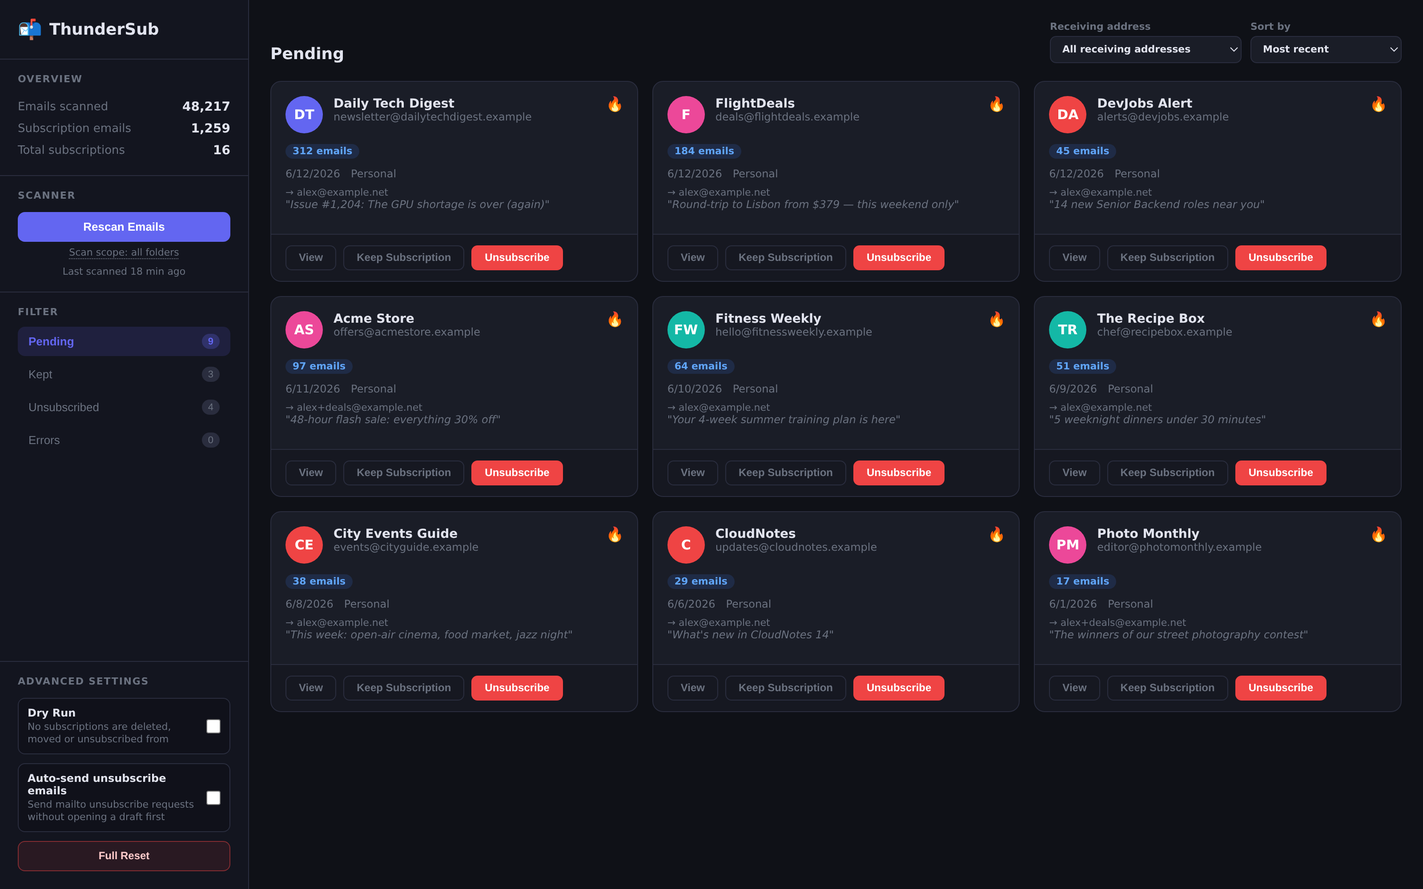
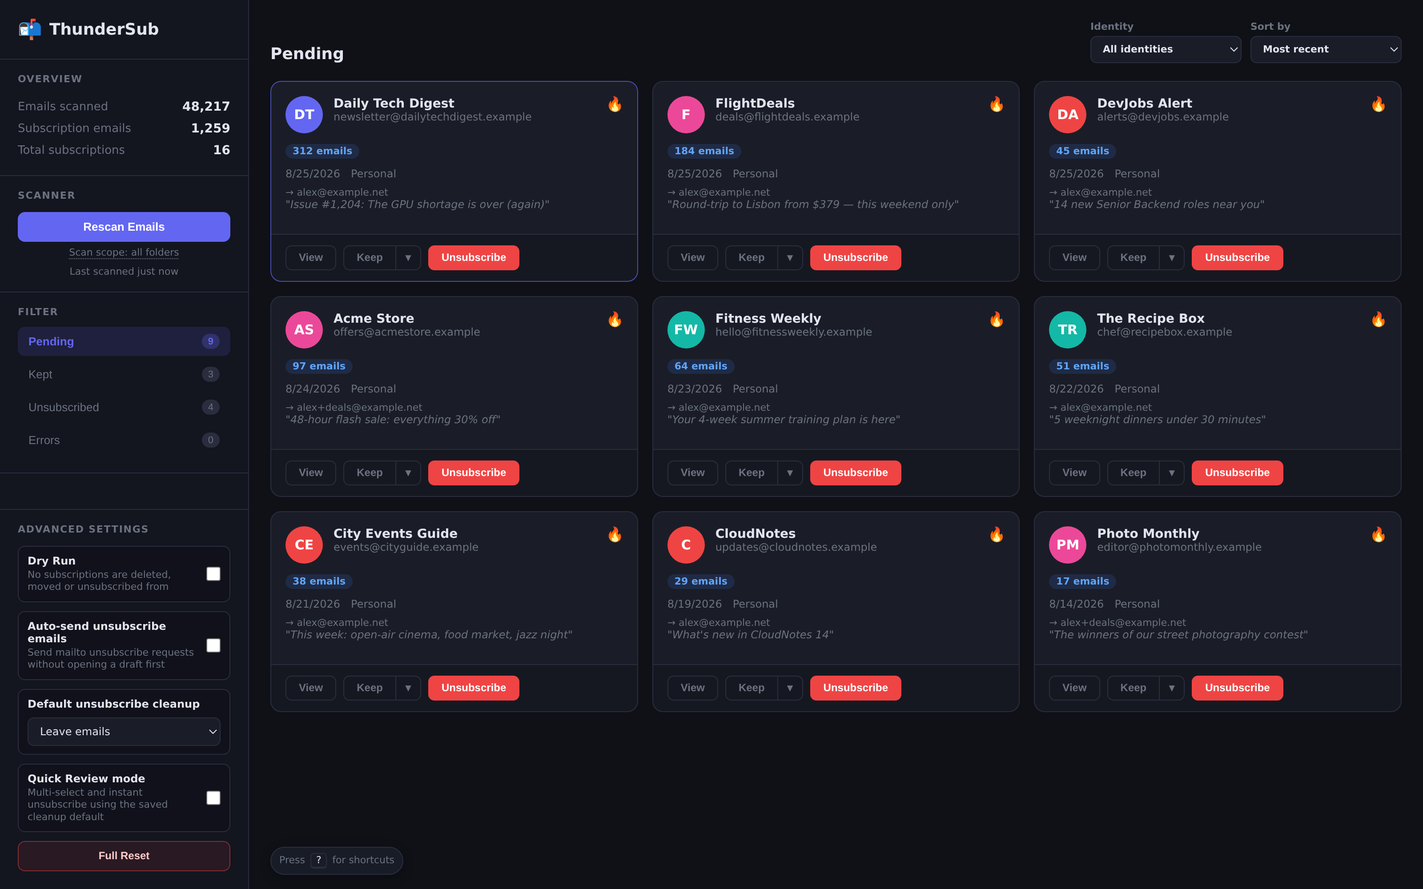
Prepare 1.1 documentation and error diagnostics

diff --git a/tab/tab.js b/tab/tab.js
@@ -201,7 +201,9 @@ function renderActivityQueue() {
             'aria-label': 'Dismiss activity item',
             'data-job-id': job.id
           }, 'x'))),
-      el('div', { class: 'activity-detail', title: job.message || '' }, job.message || 'Waiting...'),
+      el('div', {
+        class: 'activity-detail', title: job.responseMessage || job.message || ''
+      }, job.message || 'Waiting...'),
       (job.status === 'queued' || job.status === 'running') && el('div', { class: 'activity-progress-track' },
         el('div', { class: 'activity-progress-bar', style: `width:${Math.max(0, Math.min(100, job.progress || 0))}%` })));
   }));
@@ -335,6 +337,9 @@ function activityDetailRows(job) {
     ['Messages', String(job.selectedMessages || 0)],
     ['Folders', folderText],
   ].filter(Boolean);
+  if (Number.isFinite(job.httpStatus)) rows.push(['HTTP status', String(job.httpStatus)]);
+  if (job.httpStatusText) rows.push(['HTTP status text', job.httpStatusText]);
+  if (job.responseMessage) rows.push(['Response body', job.responseMessage]);
   if (job.destination) rows.push(['Destination', job.destination.label || job.destination.folderName || job.destination.id]);
   return rows;
 }
@@ -1867,7 +1872,9 @@ function buildCard(s) {
         el('span', {}, accountNames.join(', '))),
       s.recipientAddress && el('div', { class: 'card-accounts', title: `Delivered to ${s.recipientAddress}` }, `→ ${s.recipientAddress}`),
       s.sampleSubject && el('div', { class: 'card-subject', title: s.sampleSubject }, `"${s.sampleSubject.substring(0, 80)}"`),
-      s.error?.message && el('div', { class: 'card-error', title: s.error.message }, `${s.error.stage || 'Error'}: ${s.error.message}`),
+      s.error?.message && el('div', {
+        class: 'card-error', title: s.error.responseMessage || s.error.message
+      }, `${s.error.stage || 'Error'}: ${s.error.message}`),
       quickReviewDescription && (s.decision === 'pending' || s.decision === 'unsubscribed' || s.decision === 'error') &&
         el('div', { class: 'quick-review-action-note', title: quickReviewDescription.title }, quickReviewDescription.text),
       SHOW_DETECTION_UI && el('button', { class: 'evidence-toggle js-evidence-toggle', type: 'button' }, 'Why detected?')),
@@ -2547,8 +2554,23 @@ function dryRunSummary(sub, method, dispose, selectedFolders, destination, mode 
   return `${summary}. No changes made.`;
 }
 
-function errorPayload(stage, message) {
-  return { stage, message: String(message || 'Unknown error'), at: new Date().toISOString() };
+function errorPayload(stage, message, details = {}) {
+  return { stage, message: String(message || 'Unknown error'), ...details, at: new Date().toISOString() };
+}
+
+function unsubscribeFailureMessage(method, result, error) {
+  if (!method) return 'No unsubscribe method is available';
+  const label = METHOD_LABELS[method.type] || method.type || 'unsubscribe';
+  if (error) {
+    const reason = String(error.message || error).replace(/\s+/g, ' ').trim();
+    return `${label} unsubscribe failed${reason ? `: ${reason}` : ''}`;
+  }
+  if (Number.isFinite(result?.status)) {
+    const status = `HTTP ${result.status}${result.statusText ? ` ${result.statusText}` : ''}`;
+    const reason = String(result.message || '').trim();
+    return `${label} unsubscribe failed: ${status}${reason ? ` — ${reason}` : ''}`;
+  }
+  return `${label} unsubscribe failed without a response`;
 }
 
 async function doUnsubscribeConfirm() {
@@ -2646,6 +2668,7 @@ async function processActivityJob(job) {
   // Fire unsubscribe
   let ok = false;
   let unsubscribeResult = null;
+  let unsubscribeError = null;
   if (job.mode === 'cleanup' || job.mode === 'keep-cleanup') {
     ok = true;
     setActivityJobProgress(job, 'Applying cleanup...', 10);
@@ -2669,20 +2692,29 @@ async function processActivityJob(job) {
         ok = true;
       }
     } catch (e) {
+      unsubscribeError = e;
       ok = false;
     }
   }
 
   if (!ok) {
-    const message = method ? 'Unsubscribe request failed' : 'No unsubscribe method is available';
+    const message = unsubscribeFailureMessage(method, unsubscribeResult, unsubscribeError);
+    const responseDetails = unsubscribeResult ? {
+      httpStatus: unsubscribeResult.status,
+      httpStatusText: unsubscribeResult.statusText || '',
+      responseMessage: unsubscribeResult.message || ''
+    } : {};
+    Object.assign(job, responseDetails);
+    const error = errorPayload('unsubscribe', message, responseDetails);
     await trace.bg('decide', {
       ...jobRequest,
       decision: 'error',
       dispose,
-      error: errorPayload('unsubscribe', message)
+      error
     });
     updateDecisionStats(sub.decision, 'error');
     sub.decision = 'error';
+    sub.error = error;
     sub.processing = false;
     toast(message, 'error');
     if (currentFilter === 'error') renderFilteredCards();

diff --git a/store/screenshots/mock.js b/store/screenshots/mock.js
@@ -6,7 +6,7 @@
 'use strict';
 
 const SHOT = new URLSearchParams(location.search).get('shot') || 'dashboard';
-const NOW = Date.now();
+const NOW = Date.UTC(2026, 7, 25, 12, 0, 0);
 const MIN = 60000, DAY = 86400000;
 
 function iso(msAgo) { return new Date(NOW - msAgo).toISOString(); }
@@ -95,6 +95,31 @@ const SCANNING = {
   done: false, paused: false, stopped: false
 };
 
+const FOLDER_TREE = [
+  { accountId: 'a1', accountName: 'Personal', rootFolderId: 'personal-root',
+    identities: [{ email: 'alex@example.net' }, { email: 'alex+deals@example.net' }], folders: [
+      { id: 'p-inbox', name: 'Inbox', path: 'Inbox', subFolders: [] },
+      { id: 'p-archive', name: 'Archive', path: 'Archive', subFolders: [
+        { id: 'p-newsletters', name: 'Newsletters', path: 'Archive/Newsletters', subFolders: [] },
+        { id: 'p-receipts', name: 'Receipts', path: 'Archive/Receipts', subFolders: [] }
+      ] },
+      { id: 'p-travel', name: 'Travel', path: 'Travel', subFolders: [] }
+    ] },
+  { accountId: 'a2', accountName: 'Work', rootFolderId: 'work-root',
+    identities: [{ email: 'alex@work.example' }], folders: [
+      { id: 'w-inbox', name: 'Inbox', path: 'Inbox', subFolders: [] },
+      { id: 'w-newsletters', name: 'Newsletters', path: 'Newsletters', subFolders: [] },
+      { id: 'w-archive', name: 'Archive', path: 'Archive', subFolders: [] }
+    ] }
+];
+
+const MOVE_DESTINATIONS = {
+  'alex@example.net': {
+    id: 'p-newsletters', accountId: 'a1', accountName: 'Personal',
+    folderName: 'Newsletters', folderPath: 'Archive/Newsletters', label: 'Personal | Archive/Newsletters'
+  }
+};
+
 // The scope shot shows a lived-in configuration (an excluded folder and
 // skip patterns); every other shot keeps the default "all folders" scope.
 const SCOPE = {
@@ -127,6 +152,13 @@ globalThis.browser = {
       switch (request.command) {
         case 'getDryRun': return Promise.resolve({ dryRun: false });
         case 'getAutoSendUnsubscribeEmails': return Promise.resolve({ autoSendUnsubscribeEmails: false });
+        case 'getDefaultUnsubscribeDispose': return Promise.resolve({
+          defaultUnsubscribeDispose: SHOT === 'destinations' ? 'move' : 'keep'
+        });
+        case 'getMoveDestinationsByIdentity': return Promise.resolve({ moveDestinationsByIdentity: MOVE_DESTINATIONS });
+        case 'getQuickReviewMode': return Promise.resolve({
+          quickReviewMode: SHOT === 'quick' || SHOT === 'unsubscribed'
+        });
         case 'getStats': return Promise.resolve(SHOT === 'scan'
           ? Object.assign({}, STATS, { lastScanAt: null }) : STATS);
         case 'getSubscriptions': {
@@ -139,7 +171,7 @@ globalThis.browser = {
           : { status: 'idle', progress: 0, total: 0, message: '', done: false });
         case 'scan': return Promise.resolve({ ok: true });
         case 'getScanScope': return Promise.resolve(JSON.parse(JSON.stringify(SCOPE)));
-        case 'getFolderTree': return Promise.resolve([]);
+        case 'getFolderTree': return Promise.resolve(JSON.parse(JSON.stringify(FOLDER_TREE)));
         default: return Promise.resolve({ ok: true });
       }
     }
@@ -158,9 +190,19 @@ function clickWhenReady(selector, attempts = 50) {
 
 document.addEventListener('DOMContentLoaded', () => {
   if (SHOT === 'modal') {
-    clickWhenReady('.card[data-sender-email="deals@flightdeals.example"] .js-open-modal');
+    clickWhenReady('.card .js-open-modal');
+  } else if (SHOT === 'quick') {
+    clickWhenReady('.card:nth-child(1) .js-card-select');
+    setTimeout(() => clickWhenReady('.card:nth-child(2) .js-card-select'), 150);
+    setTimeout(() => clickWhenReady('.card:nth-child(3) .js-card-select'), 300);
+    setTimeout(() => document.dispatchEvent(new KeyboardEvent('keydown', { key: '?' })), 450);
+  } else if (SHOT === 'destinations') {
+    clickWhenReady('#move-destinations-btn');
+    setTimeout(() => clickWhenReady('.move-destination-summary[data-identity-address="alex@example.net"]'), 250);
   } else if (SHOT === 'unsubscribed') {
     clickWhenReady('.filter-tab[data-filter="unsubscribed"]');
+    setTimeout(() => clickWhenReady('.card:nth-child(2) .js-card-select'), 150);
+    setTimeout(() => clickWhenReady('.card:nth-child(3) .js-card-select'), 300);
   } else if (SHOT === 'scope') {
     clickWhenReady('#scan-scope-btn');
     // Once the modal's tree renders, expand Archive so the excluded

diff --git a/background.js b/background.js
@@ -1325,7 +1325,9 @@ async function runScan() {
 async function unsubOneClick(url, traceId) {
   const startedAt = Date.now();
   const localTestEndpoint = ALLOW_LOOPBACK_HTTP_FOR_TESTING &&
-    (url === 'http://127.0.0.1:8765/fail' || url === 'http://127.0.0.1:8765/success');
+    (url === 'http://127.0.0.1:8765/fail' ||
+      url === 'http://127.0.0.1:8765/fail-json' ||
+      url === 'http://127.0.0.1:8765/success');
   const blockReason = localTestEndpoint ? null : oneClickUrlBlockReason(url);
   if (blockReason) {
     tracePhase(traceId, 'one-click-blocked', startedAt, { reason: blockReason });
@@ -1336,8 +1338,14 @@ async function unsubOneClick(url, traceId) {
     headers: { 'Content-Type': 'application/x-www-form-urlencoded' },
     body: 'List-Unsubscribe=One-Click'
   });
+  const message = resp.ok ? '' : (await resp.text()).trim();
   tracePhase(traceId, 'one-click-fetch', startedAt, { status: resp.status, ok: resp.ok });
-  return { ok: resp.ok, status: resp.status };
+  return {
+    ok: resp.ok,
+    status: resp.status,
+    statusText: resp.statusText,
+    message
+  };
 }
 
 async function unsubMail(mailtoUrl, recipientAddress, traceId) {

diff --git a/README.md b/README.md
@@ -4,13 +4,15 @@
 
 No cloud service. No account. No one reading your mail. Everything runs locally inside Thunderbird.
 
-![ThunderSub dashboard — every subscription across your accounts in one place](store/screenshots/01-dashboard.png)
+![ThunderSub Quick Review — select subscriptions and process them together](store/screenshots/06-quick-review.png)
 
-| Unsubscribe & clean up in one step | Live scan progress |
+| Dashboard across every account | Unsubscribe & clean up in one step |
 |---|---|
-| ![Unsubscribe modal](store/screenshots/02-unsubscribe-modal.png) | ![Scan in progress](store/screenshots/03-scan-progress.png) |
-| **Choose exactly what gets scanned** | **Track what you've left** |
-| ![Scan scope modal](store/screenshots/05-scan-scope.png) | ![Unsubscribed view](store/screenshots/04-unsubscribed.png) |
+| ![Subscription dashboard](store/screenshots/01-dashboard.png) | ![Unsubscribe modal](store/screenshots/02-unsubscribe-modal.png) |
+| **Move to a saved folder per identity** | **Choose exactly what gets scanned** |
+| ![Move destinations](store/screenshots/07-move-destinations.png) | ![Scan scope modal](store/screenshots/05-scan-scope.png) |
+| **Watch long scans as they run** | **Batch-manage completed subscriptions** |
+| ![Scan in progress](store/screenshots/03-scan-progress.png) | ![Unsubscribed Quick Review](store/screenshots/04-unsubscribed.png) |
 
 ---
 
@@ -56,7 +58,11 @@ For each sender, ThunderSub auto-selects the best available method:
 Did a one-click request bounce? Hit **Retry** and pick any other detected method from a dropdown.
 
 ### ⌨ Quick Review mode
-Keyboard shortcuts are always available: use `1`–`4` to switch between Pending, Kept, Unsubscribed, and Errors; the arrow keys (or `h`/`j`/`k`/`l`) to move; `S` to run a full scan; and `q` to toggle Quick Review. Card actions follow the active list: Pending uses `u` to unsubscribe, `i` to keep, `v` to view, and `x` to mark as spam; Kept uses `v` to view, `c` to clean up, and `r` to review again; Unsubscribed and Errors add `u` to retry unsubscribe and `x` to dismiss. Without Quick Review, `u` opens the normal confirmation dialog. Quick Review adds multi-select and applies your saved cleanup default without opening that dialog for every sender. In modals, Escape cancels and Enter submits. **Leave emails** and **Delete emails** can be queued immediately.
+Press `?` at any time outside an input to see the shortcut guide. Use `1`–`4` to switch between Pending, Kept, Unsubscribed, and Errors; the arrow keys (or `h`/`j`/`k`/`l`) to move; `g`/`G` for the first/last card; `S` for a full scan; `C` to clear finished activity; and `q` to toggle Quick Review. In modals, Enter submits and Escape cancels.
+
+Card actions change with the active list: Pending uses `u` to unsubscribe, `i` to keep, `v` to view, and `x` to mark as spam; Kept uses `v` to view, `c` to clean up, and `r` to review again; Unsubscribed and Errors use `u` to retry, `v` to view, `c` to clean up, `r` to review again, and `x` to dismiss.
+
+Quick Review adds multi-select with `Space`. Actions always apply to the selection first and fall back to the focused card when nothing is selected. The contextual action bar exposes the same batch actions as the keyboard. Instant unsubscribe and batch cleanup use your saved cleanup default without reopening the confirmation dialog for every sender.
 
 When **Move emails** is the saved cleanup default, use the adjacent gear to choose a destination folder for each Thunderbird identity. Quick Review can move a single subscription immediately when its identity is configured; batch unsubscribe starts only when every selected identity has a valid saved destination.
 
@@ -79,6 +85,7 @@ Want to explore risk-free first? Flip the **Dry Run** toggle and every unsubscri
 - Failed unsubscribes land in an **Errors** tab with the reason — nothing silently disappears.
 - **View** any subscription to open its emails right in Thunderbird, pre-filtered by sender.
 - Rescans **preserve your decisions**: senders you kept or unsubscribed stay that way; new senders show up as pending.
+- Unsubscribe and cleanup work is queued in a visible **Activity** feed with progress, error details, cancellation, retry context, and a shortcut to clear finished items.
 
 ### 🔒 Private by design
 - All data lives in Thunderbird's local extension storage. **Nothing is uploaded, ever.**
@@ -90,18 +97,7 @@ Want to explore risk-free first? Flip the **Dry Run** toggle and every unsubscri
 
 ThunderSub requires **Thunderbird 128 or later**.
 
-ThunderSub **has not yet completed review**. Its
-[Thunderbird add-on details page](https://addons.thunderbird.net/en-US/thunderbird/addon/thundersub/)
-can be accessed directly, but it is not yet listed in the add-on gallery and cannot be found through
-Thunderbird's add-on search. For now, install it manually from the `.xpi` file:
-
-1. Open the [ThunderSub add-on listing](https://addons.thunderbird.net/en-US/thunderbird/addon/thundersub/) and download the `.xpi` file.
-2. In Thunderbird, open the **≡ menu** and select **Add-ons and Themes**.
-3. Select the **settings gear icon**, then **Install Add-on From File…**.
-4. Pick the downloaded `.xpi` file and confirm the installation.
-
-Because review is not yet complete, new versions may also need to be downloaded and installed
-manually.
+Install ThunderSub from its official [Thunderbird Add-ons listing](https://addons.thunderbird.net/en-US/thunderbird/addon/thundersub/), or search for **ThunderSub** in Thunderbird's **Add-ons and Themes** manager.
 
 ### Install from source
 
@@ -162,11 +158,15 @@ tab/             The main dashboard UI
 icons/           SVG icons
 ```
 
-No build step, no dependencies, no framework — plain JavaScript on the [Thunderbird WebExtension APIs](https://webextension-api.thunderbird.net/).
+No framework or runtime dependencies—just plain JavaScript on the [Thunderbird WebExtension APIs](https://webextension-api.thunderbird.net/). `bash build.sh` packages the source into an XPI. Node.js is used only for the development test suite (`npm test`).
+
+For an isolated manual test environment, run `bash test-inbox.sh`. It launches Thunderbird with a disposable profile containing multiple fictional inboxes, identities, aliases, and deterministic newsletter traffic; the two original unsubscribe-reproduction messages remain in Local Folders.
 
 ## Contributing
 
-Bug reports and pull requests are welcome. Useful context for hacking:
+Bug reports and pull requests are welcome through [GitHub Issues](https://github.com/SmarakNayak/thundersub/issues). Include the action that failed, the affected account/folder type, and ThunderSub logs from Thunderbird's Error Console (`Ctrl+Shift+J`, filter for `ThunderSub`) when reporting a hung or failed job.
+
+Useful context for hacking:
 
 - Subscriptions are keyed by `senderEmail|recipientAddress|accountIdentityAddress` and stored via `browser.storage.local`.
 - Message references are stored as RFC 5322 Message-IDs and re-resolved to live message ids before any delete/move, because Thunderbird's numeric ids don't survive restarts.

diff --git a/store/LISTING.md b/store/LISTING.md
@@ -62,6 +62,14 @@ ThunderSub auto-picks the best available method: silent one-click POST, unsubscr
 <b>Cleanup included</b>
 Delete a sender's entire back catalog (to Trash, never permanently), move it to any folder — with per-folder control over which copies are touched — or mark phishing senders as junk to train your spam filter without ever contacting them.
 
+<b>Quick Review</b>
+Process large review queues without repetitive dialogs. Navigate with arrow keys or familiar h/j/k/l controls, select multiple senders, then unsubscribe, keep, view, clean up, retry, dismiss, mark as spam, or return them for review as a batch. The action bar and shortcut guide change with the active Pending, Kept, Unsubscribed, or Errors list.
+
+Choose a default unsubscribe cleanup action: leave existing emails, delete them, or move them. Move destinations can be saved separately for each Thunderbird identity, so mixed-account batches still file mail into the right mailbox.
+
+<b>Visible background work</b>
+Unsubscribe and cleanup actions run through an Activity feed with queued/running/completed status, progress details, cancellation, and failure context, so a large batch never becomes a black box.
+
 <b>Safe by default</b>
 Existing emails are kept on unsubscribe unless you choose otherwise. Senders without the standard unsubscribe header get a warning before you act, and one-click requests are only ever sent to validated public https endpoints. Want to explore risk-free first? Dry-run mode simulates every unsubscribe, delete, and move and reports what would have happened.
 
@@ -114,17 +122,24 @@ Ready to upload from `store/screenshots/`, in this order, with these captions:
 3. `03-scan-progress.png` — "Scanning every folder with live progress — pause, resume, or stop at any time without losing results."
 4. `04-unsubscribed.png` — "Track what you've unsubscribed from, retry with another method, or clean up leftover emails later."
 5. `05-scan-scope.png` — "Control the scan: choose accounts and folders, and skip senders or whole domains before they're ever read."
+6. `06-quick-review.png` — "Quick Review: navigate by keyboard, select multiple subscriptions, and run the action for the whole selection."
+7. `07-move-destinations.png` — "Save a different move destination for each Thunderbird identity, or create a new folder without leaving ThunderSub."
 
 They show the real tab UI (unmodified `tab/tab.html`/`tab.css`/`tab.js`) rendered with fictional
 demo data (`.example` senders, `alex@example.net` recipient) — regenerate any time with
 `bash store/screenshots/make.sh` (needs chromium or nix).
 
-## Release notes (1.0.14)
+## Release notes (1.1.0)
 
 ```
-Maintenance release.
+Version 1.1.0 — Quick Review and workflow update.
 
-• Fixed the runtime message listener to return promises only for messages it handles, avoiding response conflicts with other listeners.
+• Added keyboard-first navigation and contextual shortcuts across every review list.
+• Added Quick Review multi-select with matching contextual batch-action buttons.
+• Added instant unsubscribe and batch cleanup using the saved cleanup default.
+• Added per-identity move destinations, including folder creation.
+• Added batch retry, review again, view, spam, dismiss, keep, and cleanup actions.
+• Improved unsubscribe destination details, errors, cancellation, and safe Full Reset handling.
 
 Compatible with Thunderbird 128 and later.
 ```
@@ -134,9 +149,7 @@ Compatible with Thunderbird 128 and later.
 ## Notes to reviewers (paste into "Notes to Reviewer" on upload)
 
 ```
-Version 1.0.14 addresses the review feedback on 1.0.13: the runtime.onMessage listener is no longer asynchronous and now returns undefined for unhandled messages. Handled messages continue to return their response promise.
-
-Source is plain, unminified JavaScript with no build step and no third-party libraries — the uploaded XPI is the source (repo: https://github.com/SmarakNayak/thundersub).
+Source is plain, unminified JavaScript with no third-party runtime libraries. build.sh performs deterministic XPI packaging; the uploaded XPI contains the readable source (repo: https://github.com/SmarakNayak/thundersub).
 
 The background runs as an ES module via a background page (background.html): background.js imports the localized unsubscribe-wording list from unsub-detect.js (embedded unsubscribe links in 13 languages), the sender skip-pattern matcher from scan-scope.js, the unsubscribe URL safety gates from unsub-url.js, and account-ID-based junk-folder routing from junk-routing.js. All matching is local regex matching; no translation service or network involvement.
 
@@ -153,5 +166,5 @@ Permission justifications:
 
 No remote code is loaded or executed. The UI never uses innerHTML: all rendering goes through a createElement/textContent element builder (el() in tab/tab.js), so strings from emails can only become text nodes and are never parsed as HTML. No user data leaves the machine.
 
-Testing tip: click the toolbar button -> "Open ThunderSub" -> "Scan Emails" against any profile with newsletter mail. Enabling the "Dry Run" toggle in the sidebar makes every action simulated and reported via toasts instead of executed.
+Testing tip: click the toolbar button -> "Open ThunderSub" -> "Scan Emails" against any profile with newsletter mail. Enabling the "Dry Run" toggle in the sidebar makes every action simulated and reported via toasts instead of executed. The repository also includes test-inbox.sh, which launches a disposable Thunderbird profile with deterministic fictional subscriptions across multiple inboxes, identities, and aliases.
 ```

diff --git a/test-inbox/README.md b/test-inbox/README.md
@@ -9,7 +9,12 @@ The Inbox contains two synthetic subscriptions for reproducing the activity
 queue failure. Queue the first unsubscribe, then queue the second during the
 first request's eight-second delay. The buggy result is that the second activity
 reports `Subscription is no longer available` after the first switches the UI
-to Errors. Those two canonical messages remain unchanged in Local Folders.
+to Errors. Those two canonical messages remain unchanged in Local Folders. A
+third `Error Subscription` message targets the same failure endpoint so the
+error card and Activity details can be checked for HTTP status, status text, and
+the complete plaintext response message. A fourth `JSON Error Subscription`
+targets `/fail-json` and returns HTTP 422 Unprocessable Content with a structured
+JSON body so non-plaintext diagnostics can be checked without losing fields.
 
 The committed profile also contains Personal and Work inboxes with ten more
 subscriptions and 83 emails, ranging from 1 to 20 messages per subscription.
@@ -18,7 +23,9 @@ batch actions, and per-identity move destinations can be tested across multiple
 addresses and inboxes without generating mail at launch time.
 
 The launcher starts a loopback-only HTTP server on port 8765. The first message
-POSTs to `/fail`, which waits eight seconds and returns HTTP 503. The second
-POSTs to `/success`, which returns HTTP 200. The launcher packages an explicitly
+POSTs to `/fail`, which waits eight seconds and returns HTTP 503 Service
+Unavailable with a plaintext diagnostic response. The second
+POSTs to `/success`, which returns HTTP 200. `/fail-json` returns HTTP 422 with
+an `application/json` diagnostic body. The launcher packages an explicitly
 named test build that permits only literal loopback HTTP for this integration
 test; production builds retain the normal local-URL protections.

diff --git a/RELEASE_NOTES.md b/RELEASE_NOTES.md
@@ -1,5 +1,11 @@
-Maintenance release.
+Version 1.1.0 — Quick Review and workflow update.
 
-- Fixed the runtime message listener to return promises only for messages it handles, avoiding response conflicts with other listeners
+- Added keyboard-first navigation and contextual shortcuts across every review list
+- Added Quick Review multi-select with matching batch-action buttons
+- Added instant unsubscribe and batch cleanup using the saved cleanup default
+- Added per-identity default move destinations, including folder creation
+- Added batch retry, review again, view, spam, dismiss, keep, and cleanup actions
+- Added clearer unsubscribe destinations and failure details to review cards
+- Improved the Activity feed, cancellation, and safe Full Reset handling
 
 Compatible with Thunderbird 128 and later.
